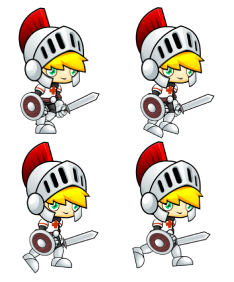
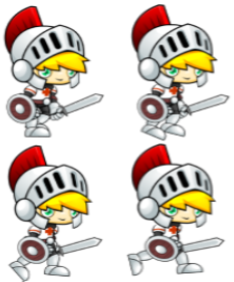
Поправив хітбокси

diff --git a/game.js b/game.js
@@ -56,12 +56,13 @@ function create ()
     platforms.create(600, 400, 'ground');
     platforms.create(50, 250, 'ground');
     platforms.create(750, 220, 'ground');
+    
 
     // гравець
     player = this.physics.add.sprite(100, 450, 'dude');
 
     player.setBounce(0.2);
-    player.setScale(0.8);
+    player.setScale(0.78);
     player.setCollideWorldBounds(true);
 
     // анімація для руху вліво
@@ -75,7 +76,7 @@ function create ()
     // анімація для стояння
     this.anims.create({
         key: 'turn',
-        frames: [ { key: 'dude', frame: 2 } ],
+        frames: [ { key: 'dude', frame: 3 } ],
         frameRate: 20
     });
 
